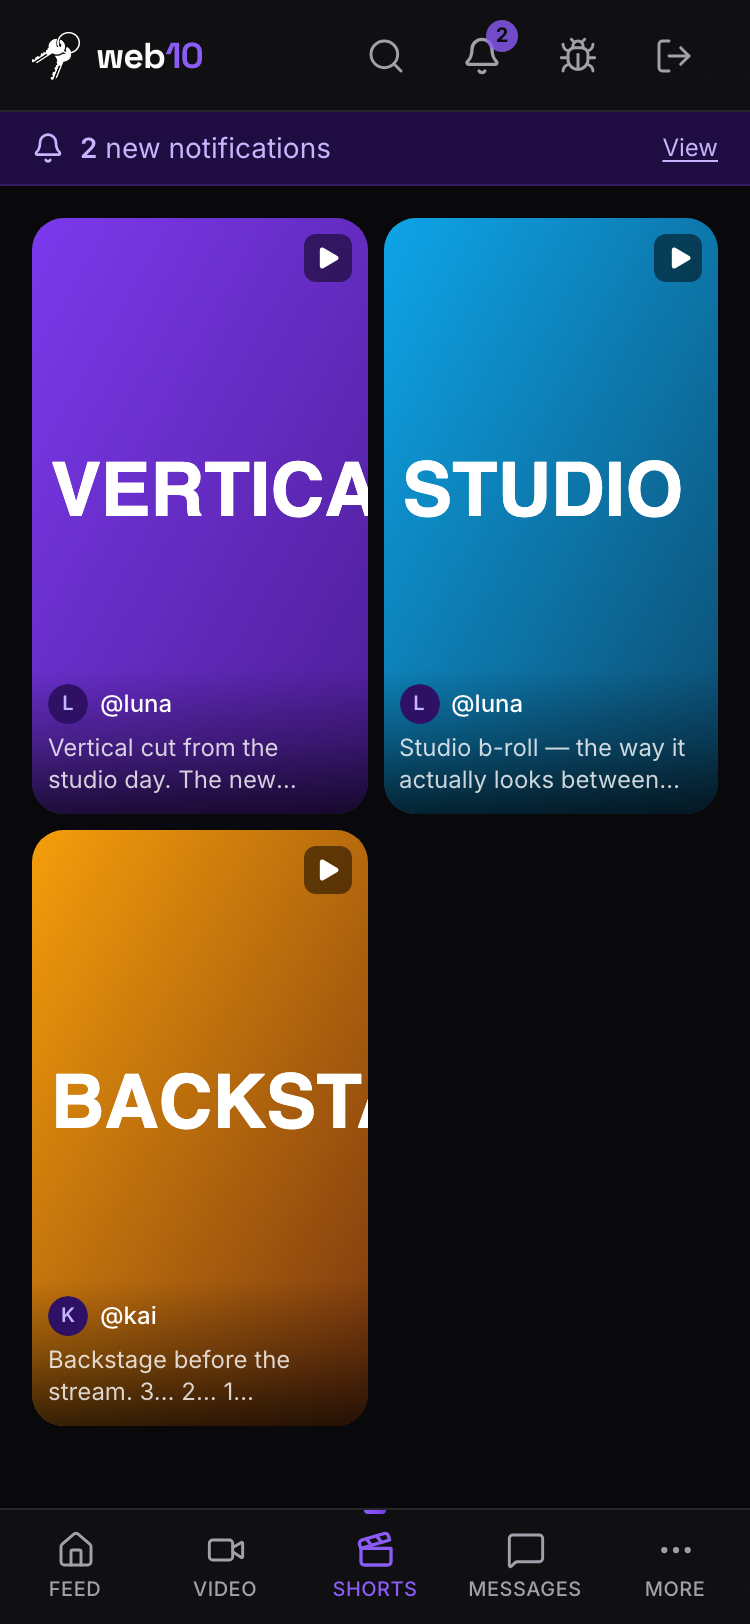
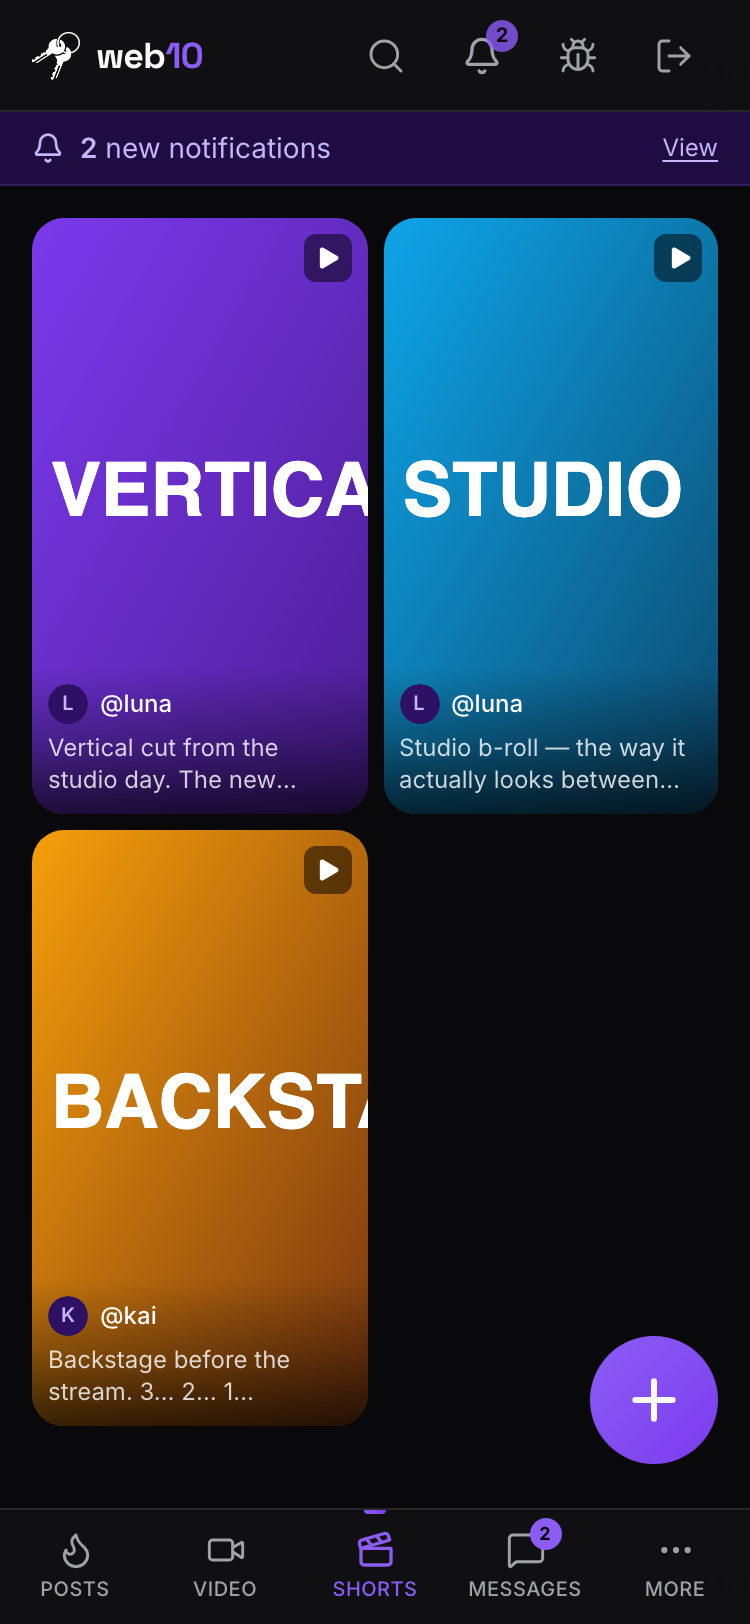
feat(web10-social): Shorts wall gets the same best of both worlds — hover-to-preview (3.220.0)
The Shorts wall rendered a raw <video poster> per tile — the thumbnail
showed instantly but nothing played on hover, and it pointed at the raw
source file (the HEVC/AV1 greyed-out-tile pattern in mobile Chrome).

Now each tile is the shared HoverVideo — the exact component the Video
wall's HomeCard uses (3.219.1), so both walls are the same surface and
can't drift: the poster at rest (the instant feel), the clip playing muted
on hover (desktop) / on a scroll-dwell (touch), a speaker toggle + scrubber,
at most one tile playing at a time, and the transcoded-HLS source (the
raw-file greyed-out-tile is gone). The play badge recedes while the preview
plays; the tile's button still owns the click (hover plays, click navigates
to the lens).

All client-side, D60 — zero node surface. Gated on 3.219.1 (the Video wall's
loading model).

Changed region(s): [[0.7667, 0.8005, 0.9507, 0.9236], [0.0613, 0.9236, 0.1533, 0.9852], [0.7053, 0.9236, 0.7667, 0.9544]]

diff --git a/marketing/web10-social/src/components/Shorts/ShortsWall.tsx b/marketing/web10-social/src/components/Shorts/ShortsWall.tsx
@@ -2,6 +2,7 @@ import { useEffect, useState, useCallback, useRef } from 'react';
 import { useNavigate, useSearchParams } from 'react-router-dom';
 import { Play, Search, X, Loader2 } from 'lucide-react';
 import { readShortsPage, type ShortPost } from '@/data';
+import { HoverVideo } from '@web10/discover';
 import { Avatar, AvatarImage, AvatarFallback } from '@/components/ui/avatar';
 
 const LOG = (...args: unknown[]) => console.log('[shorts-wall]', ...args);
@@ -229,16 +230,26 @@ export default function ShortsWall() {
             onClick={() => navigate(`/shorts/${short.post._id}`)}
             className="relative aspect-[9/16] w-full bg-elevated overflow-hidden rounded-lg group cursor-pointer outline-none focus-visible:ring-2 focus-visible:ring-ring focus-visible:ring-inset text-left"
           >
-            <video
-              src={short.media.url}
+            {/* The hover preview (the Video wall's "best of both worlds",
+                applied to the 9:16 wall): the poster at rest, the clip playing
+                MUTED on hover (desktop) / on a scroll-dwell (touch) with a
+                top-right speaker toggle + a bottom scrubber. The frame is inert
+                — the <button> owns the click (hover plays, click navigates to
+                the lens). The source follows the same transcoded-HLS rule as
+                every other video surface (sourceFromMedia): a transcoded short
+                plays through hls.js, anything else the direct file — so the
+                raw-file greyed-out-tile (HEVC/AV1 in mobile Chrome) is gone.
+                At most one tile plays at a time (the module-level coordinator). */}
+            <HoverVideo
+              media={short.media}
               poster={short.media.thumbnail_url}
-              className="w-full h-full object-cover transition-transform duration-150 group-hover:scale-105"
-              preload="metadata"
-              playsInline
-              muted
+              testId={`short-wall-hover-${short.post._id}`}
+              className="absolute inset-0"
             />
-            {/* The play badge (the video affordance, top-right). */}
-            <div className="absolute top-2 right-2 flex items-center justify-center w-6 h-6 rounded-md bg-black/50 backdrop-blur-sm" aria-hidden="true">
+            {/* The play badge (the video affordance, top-right). It recedes
+                while the hover preview plays (the still's affordance — the
+                preview replaces it), the Video wall's pattern. */}
+            <div className="absolute top-2 right-2 flex items-center justify-center w-6 h-6 rounded-md bg-black/50 backdrop-blur-sm transition-opacity duration-150 group-hover:opacity-0 pointer-events-none" aria-hidden="true">
               <Play className="w-3.5 h-3.5 text-white ml-px" fill="currentColor" strokeWidth={0} />
             </div>
             {/* The author + caption overlay (the TikTok/Instagram position). */}

diff --git a/marketing/web10-social/src/__tests__/shortsScreen.test.tsx b/marketing/web10-social/src/__tests__/shortsScreen.test.tsx
@@ -631,6 +631,37 @@ describe('ShortsScreen — the explore wall (/shorts, the "before you pick a sho
     expect(screen.getByText('first')).toBeInTheDocument();
   });
 
+  it('each tile is the hover preview — poster at rest, the clip plays muted on hover (the Video wall pattern)', async () => {
+    (data.readShortsPage as ReturnType<typeof vi.fn>).mockResolvedValue({
+      shorts: [hlsShort({ id: 's1', author: 'luna' })],
+      hasMore: false,
+    });
+    await renderWall();
+
+    await waitFor(() => {
+      expect(screen.getByTestId('short-wall-tile-s1')).toBeInTheDocument();
+    });
+    const frame = screen.getByTestId('short-wall-hover-s1');
+    const video = frame.querySelector('video') as HTMLVideoElement;
+    // At rest: the poster is the face, nothing is attached (no hls instance,
+    // no source) — the wall does not mint N players at rest.
+    expect(frame.querySelector('img')).not.toBeNull();
+    expect(video.getAttribute('src')).toBeNull();
+    expect(FakeHls.instances).toHaveLength(0);
+
+    // Hover: the transcoded source attaches through hls.js + the preview plays
+    // muted (the autoplay policy).
+    const play = vi.spyOn(video, 'play').mockResolvedValue(undefined);
+    fireEvent.mouseEnter(frame);
+    await waitFor(() => {
+      expect(FakeHls.instances.length).toBeGreaterThan(0);
+      expect(play).toHaveBeenCalled();
+    });
+    expect(video.muted).toBe(true);
+    // The raw source file is NOT used (the greyed-out-tile rule).
+    expect(video.getAttribute('src')).toBeNull();
+  });
+
   it('infinite scroll: the sentinel loads the next page and appends (the wall pages the board)', async () => {
     // Page 1: two shorts, hasMore true (a full board page).
     // Page 2: two more shorts, hasMore false (the last page).

diff --git a/knowledge/strategy/parallel-execution.md b/knowledge/strategy/parallel-execution.md
@@ -201,7 +201,7 @@ Both seams are now retired (3.11.0 auth, 3.12.0 data); what remains is
 
   - [✓ 3.219.1] **The Video wall paints its thumbnails on the ONE read — the "best of both worlds" (instant thumbnails + hover-to-play), and it scales to a ton of videos** (operator, 06.10.2026, a Video-tab screenshot of a grey, empty wall: "video definitely waits before ALL video is loaded to render… this is going to be too slow… needs to show it with the thumbnails, and when you hover can load the video then, when you click it takes you somewhere else anyways! think about scale you know what i mean? does this work when there are a tonn of videos?" + "seems like the best of both worlds if we get this right, fast loading, and on hover, see the video before clicking it"). **The root (the wall waited on everything before painting):** `loadDiscover` gated `setPosts` behind three SEQUENTIAL phases — the board read, then a **serial per-author profile-read loop** (`for…await readUserProfile` — N distinct authors = N sequential round-trips), then a **second media round-trip** (`resolveMediaRefs`). The node's `/v3/read` already returns `media_refs` **pre-resolved** (presigned `thumbnail_url` + `read_url` + dimensions + HLS settings on each ref object), but `fromV3DocToPost` cast them to `string[]` and threw that away, forcing the redundant re-read. So the wall's first paint waited on the profile fan-out + a media read it never needed — and that wait grows linearly with the number of distinct authors (a ton of videos = a ton of serial reads). **The fix (all client-side, D60 — zero node surface):** (1) `fromV3DocToPost` preserves the inline resolved `media_refs` (`src/data/types.ts`); (2) `loadDiscover` paints on the one read (`DiscoverScreen.tsx`) — the media map is built synchronously from the inline resolved refs, `setPosts` fires right after the board read (one round-trip to first paint, thumbnails in the first render, no grey window), and the three enrichments move to a **background parallel** pass that patches the grid in: the engagement tallies, the authors' faces (now... (line truncated to 2000 chars)
 
-  - [ ] **The Shorts wall gets the same "best of both worlds" — instant thumbnails + hover-to-preview (the Video wall's pattern, applied to the 9:16 wall)** (operator, 06.10.2026: "would ike the shorts tab and this tabs first page to both work this same way. you know what i mean that first screen when you open them." + "shorts loads instantly but no video plays would be nice if shorts had the best of both worlds too, thumbnails, that instant feel, and when you hover, it plays on its own!" + "just clarifying because on mobile you dont have a mouse to hover, we already did the stuff to make it compatible with phone and or pc where video plays on phone before opening too, got good behaviors for that."). **The gap:** the Shorts wall (`ShortsWall.tsx`) renders a raw `<video src={media.url} preload="metadata">` per tile — no hover preview, no touch-dwell, and it points at the **raw source file** (the HEVC/AV1 greyed-out-tile pattern) instead of the transcoded HLS. **The build (all client-side, D60 — zero node surface):** swap the raw `<video>` for the shared **`HoverVideo`** (the same component the Video wall's `HomeCard` uses — poster at rest, the clip playing muted on hover with the speaker toggle + scrubber, the scroll-dwell analog on touch, one preview at a time). `short.media` is already a `MediaRecord` (structurally a `MediaItem`), so the swap is a direct composition. The poster is `short.media.thumbnail_url`; the source follows the same transcoded-HLS rule (`sourceFromMedia`). **Gates: 3.219.1 (the Video wall's loading model — land the Video PR first, confirm it's truly the best of both worlds, then adapt Shorts).** **Acceptance bar:** the Shorts wall's first screen paints instant thumbnails (one round-trip, no grey window); hovering a tile plays it muted (desktop) / the scroll-dwell plays it (mobile); at most one tile plays at a time; a click still navigates to `/shorts/:postId`; the raw-file greyed-out-tile is gone (transcoded HLS). `shortsWall` tests + `hoverVid... (line truncated to 2000 chars)
+  - [✓ 3.220.0] **The Shorts wall gets the same "best of both worlds" — instant thumbnails + hover-to-preview (the Video wall's pattern, applied to the 9:16 wall)** (operator, 06.10.2026: "would ike the shorts tab and this tabs first page to both work this same way. you know what i mean that first screen when you open them." + "shorts loads instantly but no video plays would be nice if shorts had the best of both worlds too, thumbnails, that instant feel, and when you hover, it plays on its own!" + "just clarifying because on mobile you dont have a mouse to hover, we already did the stuff to make it compatible with phone and or pc where video plays on phone before opening too, got good behaviors for that."). **The gap:** the Shorts wall (`ShortsWall.tsx`) renders a raw `<video src={media.url} preload="metadata">` per tile — no hover preview, no touch-dwell, and it points at the **raw source file** (the HEVC/AV1 greyed-out-tile pattern) instead of the transcoded HLS. **The build (all client-side, D60 — zero node surface):** swap the raw `<video>` for the shared **`HoverVideo`** (the same component the Video wall's `HomeCard` uses — poster at rest, the clip playing muted on hover with the speaker toggle + scrubber, the scroll-dwell analog on touch, one preview at a time). `short.media` is already a `MediaRecord` (structurally a `MediaItem`), so the swap is a direct composition. The poster is `short.media.thumbnail_url`; the source follows the same transcoded-HLS rule (`sourceFromMedia`). **Gates: 3.219.1 (the Video wall's loading model — land the Video PR first, confirm it's truly the best of both worlds, then adapt Shorts).** **Acceptance bar:** the Shorts wall's first screen paints instant thumbnails (one round-trip, no grey window); hovering a tile plays it muted (desktop) / the scroll-dwell plays it (mobile); at most one tile plays at a time; a click still navigates to `/shorts/:postId`; the raw-file greyed-out-tile is gone (transcoded HLS). `shortsWall` tests + `hoverVid... (line truncated to 2000 chars)
 
   - [✓ 3.218.0] **Reposts render across every post surface — the marketing discover card shows the "reposted" badge + the embedded original + a real repost count** (operator, 05.10.2026, a discover screenshot of a #1 post with a `repost 0` tally: "this is a repost, but on other surfaces, the repost just doesnt work…… like the marketing discover, discover, we need repost to work across surfaces! (not videos and shorts though, dont need to show reposts there, but on the post surfaces ABSOLUTELY)"). **The gap:** the social app's post surfaces render the social `PostCard` (which already shows a repost's `repost_of` badge + quote + `RepostedEmbed`), but the **marketing discover** renders the **shared** `DiscoverCard` (`@web10/discover`), which had no repost rendering — `repost_of` was never mapped onto its `DiscoverPost`, and the board's feed **hardcoded `reposts: 0`** (the `repost 0` in the screenshot). **The build (all client-side, D60 — zero node surface):** (1) the shared card gains `repost_of` on `DiscoverPost` + a new `RepostEmbed` (the shared, presentational version of the feed's `RepostedEmbed`) that fetches the original by `repost_of` doc_id through a new injected `readRepostOriginal` seam and renders the nested read-only block (author, text, media) — I3: a post the reader can't read degrades to "Original post unavailable" (a repost never grants access to the original); the card shows the **"reposted" badge** + the reposter's quote + the embed. (2) the marketing discover (`FeedPreview.tsx`) maps `repost_of` from the post body, reads the **real** repost count (a `/v3/query` `count(DISTINCT doc_id)` over `posts` whose `repost_of` points at the board's posts, anon — was hardcoded `0`) + folds it into the engagement score, and injects an **anon** `readRepostOriginal` (the node's read-by-id is `user_or_anon` + resolves media server-side — the same rule the post permalink's anon read relies on). **Not videos/shorts** — those are video-only walls (`HomeCard`) and a repost is a text/quote post, so it never lands there. **Gates:** none. **Acceptance bar:** a repost on the marketing discover shows the "reposted" badge + the reposter's quote + the embedded original (author + text + media, the quote-tweet layout); the repost count is real (not hardcoded 0); a repost the anon reader can't read degrades to "Original post unavailable" (I3); a normal post shows no badge/embed; the video + shorts walls are untouched (no reposts there). `Trending.test.tsx` +4 + `mockDiscoverFeed` extended; 1372 web10-social + 290 marketing-ui green, both `tsc` clean. KB `social/reposts.md` ("Reposts render across every post surface"). Screenshots: `/tmp/repost-embed-desktop.png`.
 

diff --git a/knowledge/changelogs/CHANGELOG.md b/knowledge/changelogs/CHANGELOG.md
@@ -1,3 +1,6 @@
+3.220.0 || 06.10.2026
+feat(web10-social): **the Shorts wall gets the same "best of both worlds" — instant thumbnails + hover-to-preview, the Video wall's pattern applied to the 9:16 wall** — operator (06.10.2026): "would ike the shorts tab and this tabs first page to both work this same way. you know what i mean that first screen when you open them." + "shorts loads instantly but no video plays would be nice if shorts had the best of both worlds too, thumbnails, that instant feel, and when you hover, it plays on its own!" + "just clarifying because on mobile you dont have a mouse to hover, we already did the stuff to make it compatible with phone and or pc where video plays on phone before opening too, got good behaviors for that." **The gap:** the Shorts wall (`ShortsWall.tsx`) rendered a raw `<video src={media.url} preload="metadata">` per tile — the poster (thumbnail) showed instantly, but **nothing played on hover** (the "loads instantly but no video plays" complaint), and it pointed at the **raw source file** (the HEVC/AV1 greyed-out-tile pattern in mobile Chrome) instead of the transcoded HLS. **The fix (all client-side, D60 — zero node surface):** swap the raw `<video>` for the shared **`HoverVideo`** — the exact component the Video wall's `HomeCard` uses (3.219.1), so both walls are the same surface and can't drift. `short.media` is already a `MediaRecord` (a structural superset of the shared `MediaItem`), so it's a direct composition: the **poster at rest** (the instant thumbnail, `thumbnail_url`), the clip **playing muted on hover** (desktop) / on a **scroll-dwell** (touch — the 3.203.0 mobile analog the operator referenced), a top-right speaker toggle + bottom scrubber, and **at most one tile playing at a time** (the module-level coordinator). The source follows the same transcoded-HLS rule as every other video surface (`sourceFromMedia`): a transcoded short plays through hls.js, anything else the direct file — so the raw-file greyed-out-tile is gone. The play badge (the at-rest video affordance, top-right) now recedes while the preview plays (the "the affordance is for the still" idiom). The tile's `<button>` still owns the click (hover plays, click navigates to `/shorts/:postId`). **Gated on 3.219.1** (the Video wall's loading model — landed first, confirmed). **Tests:** `shortsScreen.test.tsx` +1 (the tile is the hover preview — poster at rest + nothing attached at rest, then on hover the transcoded source attaches through hls.js + the preview plays muted, and the raw source file is never used). 1377 web10-social green, `tsc` clean. Screenshots: `shorts-wall-{desktop,375}.png`. Lane: `social-v3` in `parallel-execution.md`.
+
 3.219.1 || 06.10.2026
 fix(web10-social): **the Video wall paints its thumbnails on the ONE read — the "best of both worlds" (instant thumbnails + hover-to-play), and it scales to a ton of videos** — operator (06.10.2026, a Video-tab screenshot of a grey, empty wall): "video definitely waits before ALL video is loaded to render… this is going to be too slow… needs to show it with the thumbnails, and when you hover can load the video then, when you click it takes you somewhere else anyways! think about scale you know what i mean? does this work when there are a tonn of videos?" + "seems like the best of both worlds if we get this right, fast loading, and on hover, see the video before clicking it." **The root (the wall waited on everything before painting):** `loadDiscover` gated `setPosts` behind three SEQUENTIAL phases — the board read, then a **serial per-author profile-read loop** (`for…await readUserProfile` — N distinct authors = N sequential round-trips), then a **second media round-trip** (`resolveMediaRefs`). The node's `/v3/read` already returns `media_refs` **pre-resolved** (presigned `thumbnail_url` + `read_url` + dimensions + HLS settings on each ref object), but `fromV3DocToPost` cast them to `string[]` and threw that away, forcing the redundant re-read. So the wall's first paint waited on the profile fan-out + a media read it never needed — and that wait grows linearly with the number of distinct authors (a ton of videos = a ton of serial reads). **The fix (all client-side, D60 — zero node surface):** (1) **`fromV3DocToPost` preserves the inline resolved `media_refs`** (`src/data/types.ts` — was a `string[]` cast that dropped the resolved objects; the API read path's resolved refs are now kept, write-path bare doc_id strings still pass through). (2) **`loadDiscover` paints on the one read** (`DiscoverScreen.tsx`) — the media map is built synchronously from the inline resolved refs, `setPosts` fires right after the board read (one round-trip to first paint, thumbnails in the first render, no grey window), and the three enrichments move to a **background parallel** pass that patches the grid in: the engagement tallies, the authors' faces (now a single `Promise.all` fan-out, not a serial loop), and the string-ref media fallback (only for write-path reads — the API read path never needs it). The in-place tally mutation bumps the posts array so the Top 10 rail's memo recomputes. **The "best of both worlds" is now true end-to-end:** fast loading (instant thumbnails from the one read) **and** hover-to-play — the `HoverVideo` preview was already lazy (the poster is the resting face; the video source attaches on first hover / first touch-dwell; at most one tile plays at a time via the module-level coordinator), so a wall of a ton of videos costs one thumbnail image per tile at rest and one preview player only for the tile the pointer/finger is on. This supersedes the 3.210.1 "paint only after media resolves" move, which traded the grey window for a wall that waited on every enrichment before a single thumbnail could paint. **Tests:** `discoverScreen.test.tsx` — the 3.210.1 regression re-pinned to the new contract (the grid paints from the inline-resolved refs after the one read, the tile carries the thumbnail, and the second media round-trip is never called — the media read is gated behind a promise that is never released) + a new test (string media refs still resolve via the background fallback, patching the thumbnail in). 1376 web10-social green, `tsc` clean. KB `social/discover-card.md` "The wall's loading model" + the touch-dwell correction (3.203.0). Screenshots: `video-wall-{desktop,375}.png`. Lane: `social-v3` in `parallel-execution.md`.
 

diff --git a/knowledge/knowledge-base/web10-v3/social/shorts.md b/knowledge/knowledge-base/web10-v3/social/shorts.md
@@ -44,7 +44,7 @@ The two layers divide the job: **the tag is the server-side filter (cheap, index
 
 `/shorts` (no `:postId`) is **the wall** — a responsive grid of 9:16 vertical video tiles that fills the whole screen. It is the discover / explore surface: you see the shorts at a glance, tap one, and drop into the lens. The same shape as the profile's content wall (the two surfaces share the visual language — a wall of vertical video, the new-Instagram / TikTok shape).
 
-- **The tiles:** each tile is a 9:16 vertical frame (`aspect-[9/16]`) — a `<video>` poster (muted, `preload="metadata"`) with a play badge (top-right) and the author handle + caption overlay (bottom, the TikTok/Instagram position). Tapping a tile navigates to `/shorts/:postId` (the lens, opened on that short).
+- **The tiles (the "best of both worlds", 3.220.0):** each tile is a 9:16 vertical frame (`aspect-[9/16]`) that is the shared **`HoverVideo`** — the exact component the Video wall's `HomeCard` uses (`discover-card.md` "The wall's loading model"), so both walls are the same surface and can't drift. The **poster (thumbnail) is the resting face** (the instant feel — the wall paints its thumbnails on the one read, no grey window); the clip **plays muted on hover** (desktop) / on a **scroll-dwell** (touch, the 3.203.0 mobile analog) with a top-right speaker toggle + a bottom scrubber, and **at most one tile plays at a time** (the module-level coordinator). The source follows the same transcoded-HLS rule as every other video surface (`sourceFromMedia`): a transcoded short plays through hls.js, anything else the direct file — so the raw-file greyed-out-tile (HEVC/AV1 in mobile Chrome) is gone. The play badge (the at-rest video affordance, top-right) recedes while the preview plays. Tapping a tile navigates to `/shorts/:postId` (the lens, opened on that short) — the tile's `<button>` owns the click (hover plays, click navigates).
 - **The grid is responsive, capped at 4 columns.** `grid-template-columns: repeat(auto-fill, minmax(max(160px, 25%), 1fr))` — each column is at least 25% of the container wide (so never more than 4 columns) and never narrower than 160px (so fewer columns as the width shrinks: ~2 on a phone, 3 on a laptop, 4 on a wide monitor). The operator's call (29.09.2026, a 7-column wide-screen screenshot): "should be 4 posts wide to match insta … and responsive, so if smaller, then less columns, way too many columns here" — the Instagram-explore shape, not an un-capped fill.
 - **The data is the same `readShortsFeed`** the lens uses (the two-layered read above), so the wall and the lens show the same shorts — the wall is a *view* over the same filtered discover read, just rendered as tiles instead of slides.
 - **The wall keeps the normal chrome** (top bar + bottom nav + `pb-16`) — it is a normal scrollable surface, not the immersive lens. Only the lens (`/shorts/:postId`) is full-bleed (decision #8 below).
